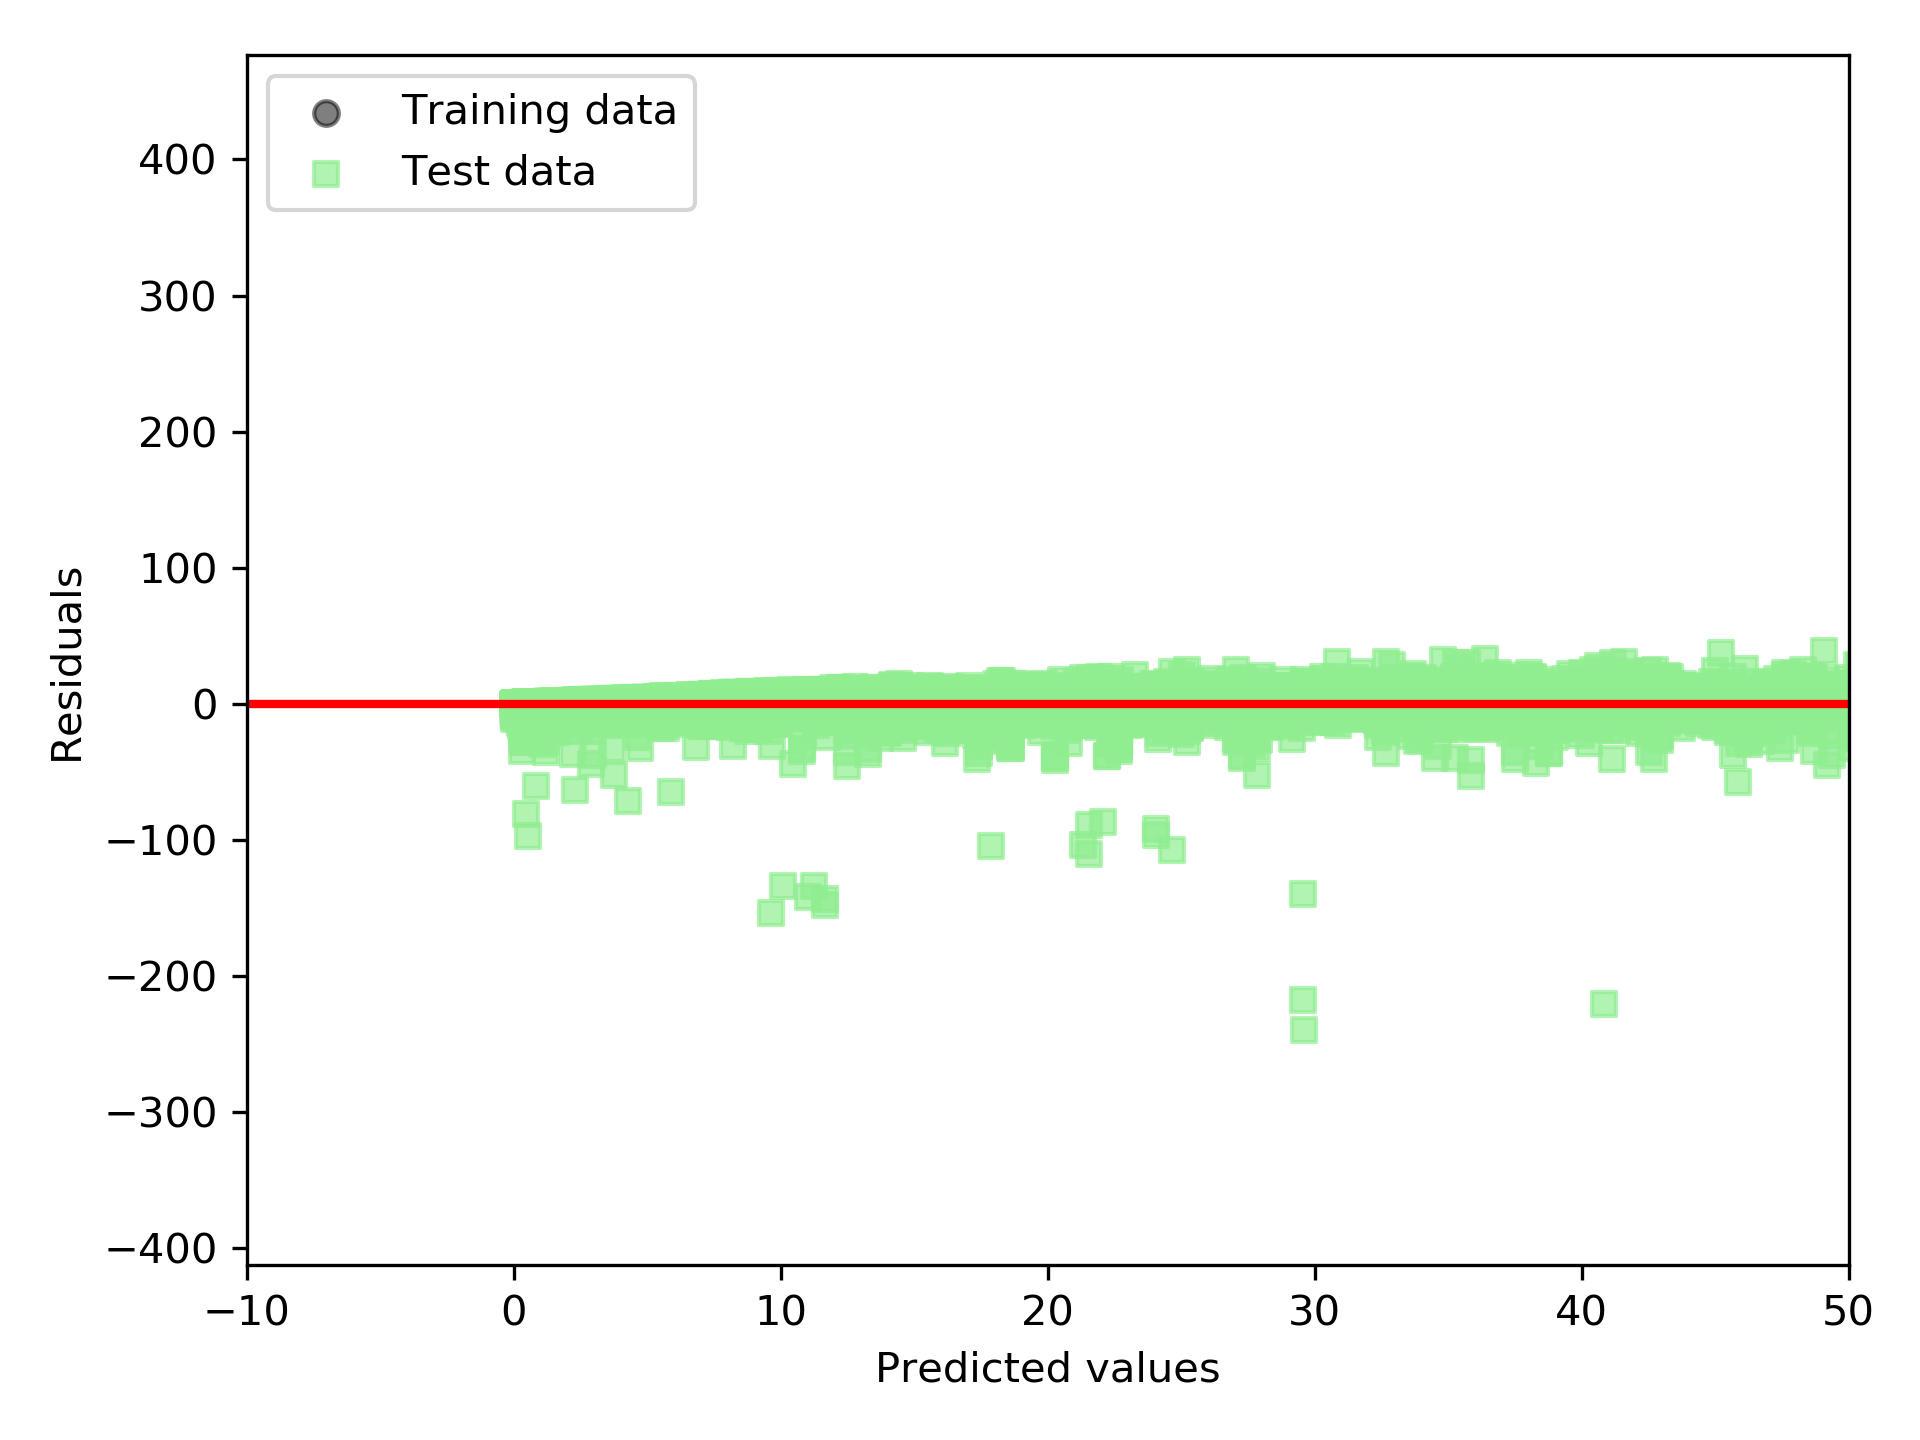
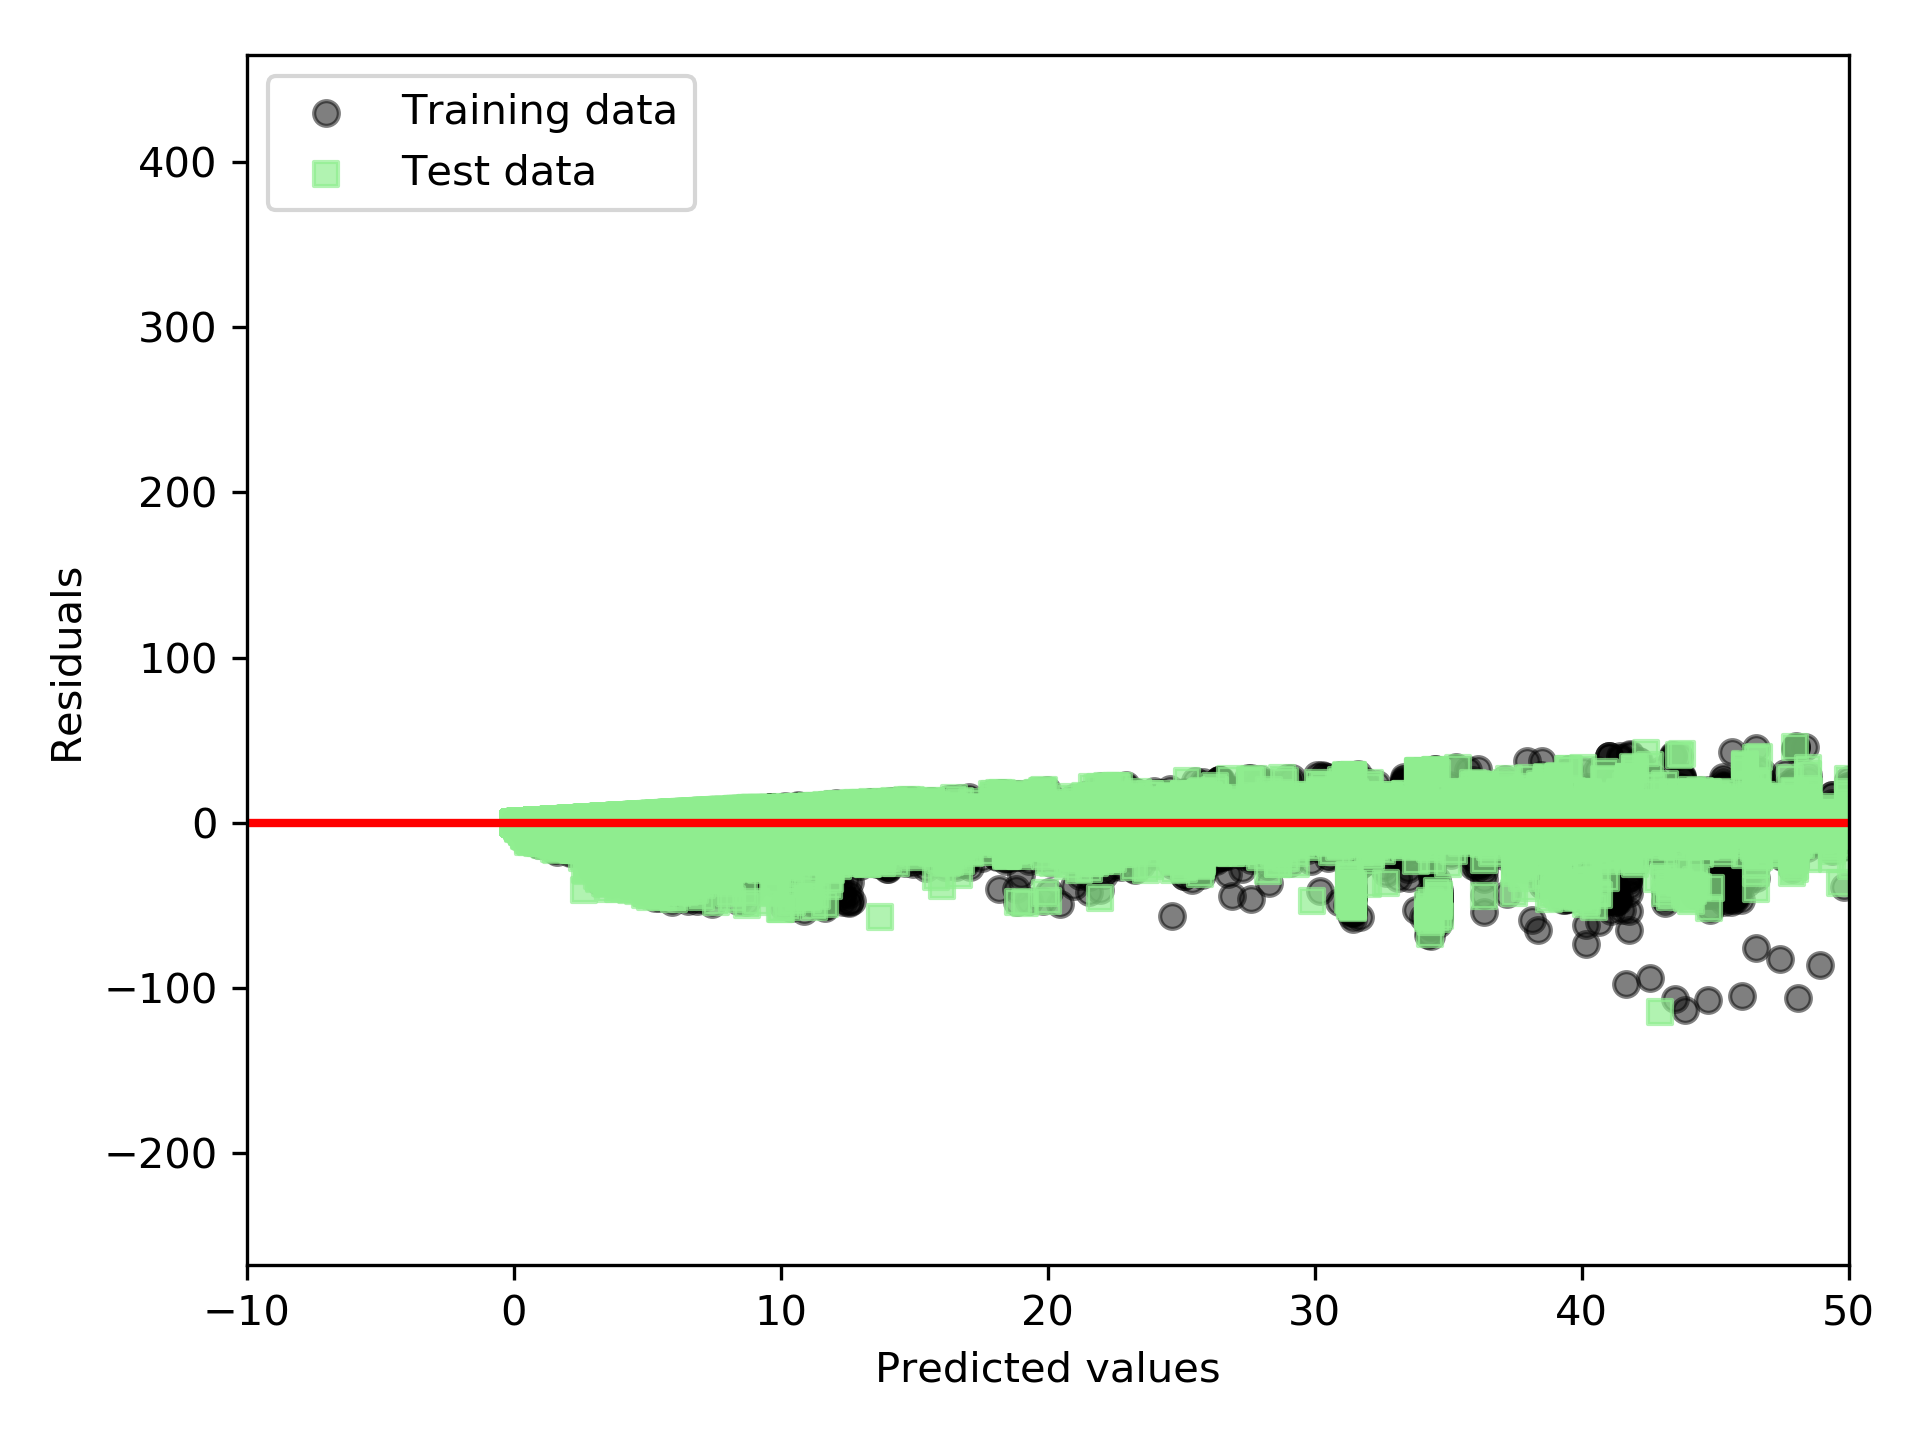
select a better model for predict cnt

diff --git a/data_preprocess/transition_data_preprocess.py b/data_preprocess/transition_data_preprocess.py
@@ -51,8 +51,8 @@ feature_set=dataset_1.drop(columns=['cnt'])
 feature_name=feature_set.columns.values.tolist()
 print(len(feature_name))
 x_train,x_test,y_train,y_test=train_test_split(feature_set,label,random_state=1)
-clf=tree.DecisionTreeRegressor()#决策树回归模型
-clf=clf.fit(x_train,y_train)
+# clf=tree.DecisionTreeRegressor()#决策树回归模型
+# clf=clf.fit(x_train,y_train)
 # y_importances=clf.feature_importances_
 # print(y_importances)
 # x_importances=feature_name
@@ -79,19 +79,26 @@ R^2 train: 0.119, test: 0.113
 # for leaf_size in sample_leaf_options :
 # forest = RandomForestRegressor(n_estimators=1000, criterion='mse', oob_score = True,
 #                                 max_features = "auto", min_samples_leaf = 50,random_state=1, n_jobs=-1)
-# forest.fit(x_train, y_train)#MSE train: 21123.455, test: 842033.039
-# from sklearn.ensemble import GradientBoostingRegressor
-# gbdt=GradientBoostingRegressor(loss='ls',alpha=0.9
-#                                ,n_estimators=500,
-#                                learning_rate=0.05,
-#                                max_depth=8,
-#                                subsample=0.8,min_samples_split=9,max_leaf_nodes=10)
+# forest.fit(x_train, y_train)
+'''
+220
+[ 0.49951224  0.49990213  0.489549    0.51506279  0.51226327]
+MSE train: 29.700, test: 31.728
+R^2 train: 0.967, test: 0.966
+'''
+
+from sklearn.ensemble import GradientBoostingRegressor
+gbdt=GradientBoostingRegressor(loss='ls',alpha=0.9
+                               ,n_estimators=500,
+                               learning_rate=0.05,
+                               max_depth=8,
+                               subsample=0.8,min_samples_split=9,max_leaf_nodes=10)
 # from xgboost import XGBRegressor
 # xgb=XGBRegressor(learning_rate=0.05, n_estimators=500)
-scores=cross_val_score(clf,x_test,y_test,cv=5)
+scores=cross_val_score(gbdt,x_test,y_test,cv=5)
 print(scores)
-y_train_pred = clf.predict(x_train)
-y_test_pred =clf.predict(x_test)
+y_train_pred = gbdt.predict(x_train)
+y_test_pred =gbdt.predict(x_test)
 print('MSE train: %.3f, test: %.3f' % (mean_squared_error(y_train, y_train_pred),mean_squared_error(y_test, y_test_pred)))
 print('R^2 train: %.3f, test: %.3f' % (r2_score(y_train, y_train_pred),r2_score(y_test, y_test_pred)))
 plt.scatter(y_train_pred, y_train_pred - y_train, c='black', marker='o', s=35, alpha=0.5, label='Training data')
@@ -102,15 +109,14 @@ plt.legend(loc='upper left')
 plt.hlines(y=0, xmin=-10, xmax=50, lw=2, color='red')
 plt.xlim([-10, 50])
 plt.tight_layout()
-plt.savefig('./cnt_forest_residuals.png', dpi=300)
-plt.show()
+plt.savefig('./cnt_gbdt_residuals.png', dpi=300)
 pre_tran_data_1=pd.read_csv('./pre_tran_train_1.csv')
 pre_tran_data=pre_tran_data_1.drop(columns=['date_dt'])
 pre_tran_data=pd.get_dummies(pre_tran_data,columns=['o_city_code','o_district_code','d_city_code','d_district_code','work_day'])
 pre_tran_data=pre_tran_data.astype('float')
-y_predict=clf.predict(pre_tran_data)
+y_predict=gbdt.predict(pre_tran_data)
 pre_tran_data_1['cnt']=y_predict
-pre_tran_data_1.to_csv('./pre_tran_data.csv')
+pre_tran_data_1.to_csv('./pre_tran_gbdt_data.csv')
 
 
 
